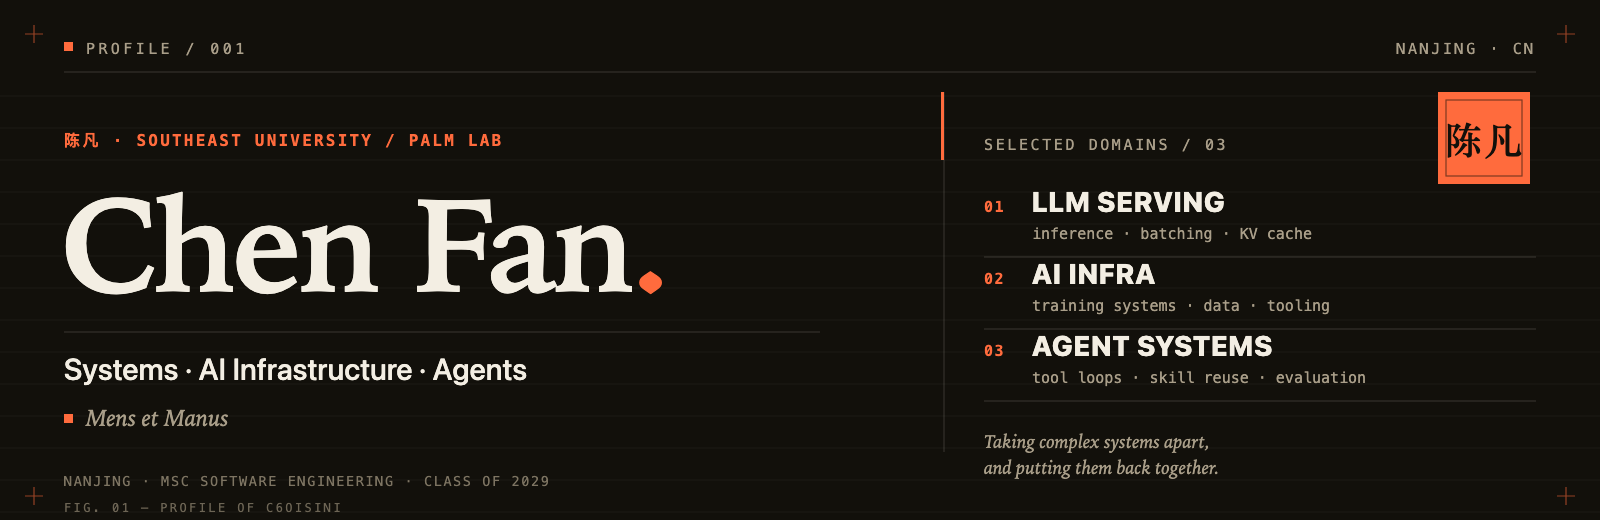
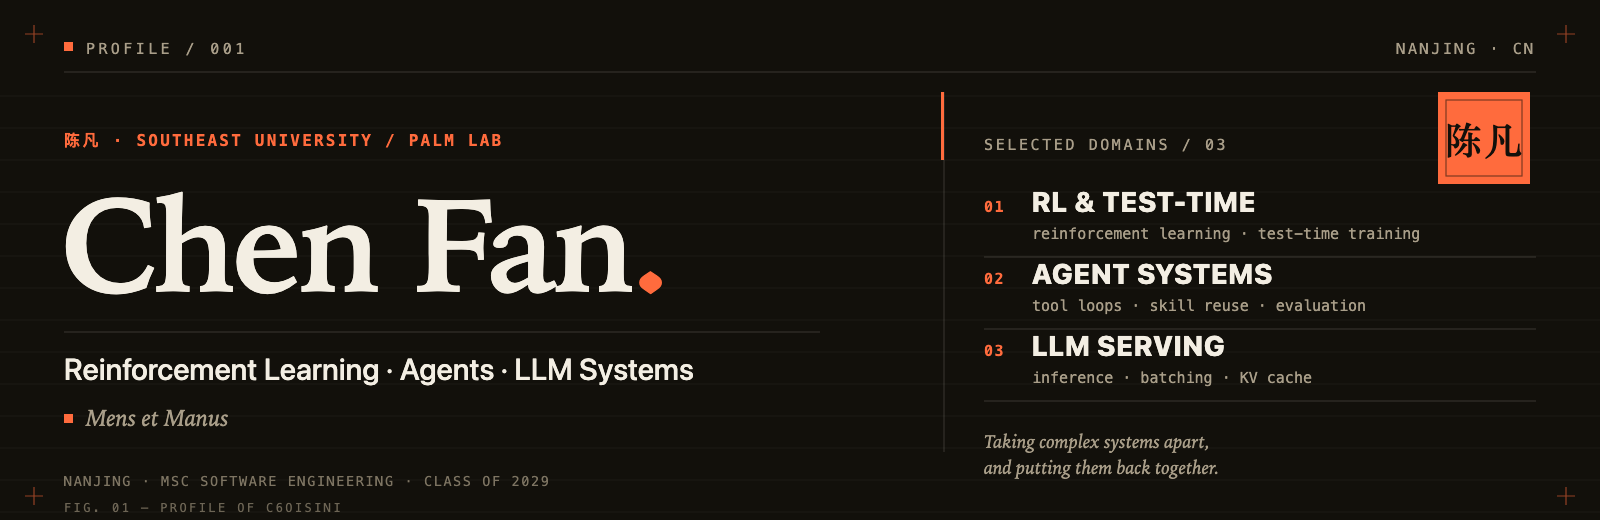
Refocus profile on reinforcement learning and agents
Sync the hero and English README with the updated Chinese copy, and switch the contact email to Gmail.

diff --git a/make_hero.py b/make_hero.py
@@ -21,16 +21,16 @@ NAME_CN = "陈凡"
 HANDLE = "C6oisini"
 LABEL = "PALM LAB"
 SCHOOL = "SOUTHEAST UNIVERSITY"
-TAGLINE = "Systems · AI Infrastructure · Agents"
+TAGLINE = "Reinforcement Learning · Agents · LLM Systems"
 MOTTO = "Mens et Manus"
 LOCATION = "NANJING · CN"
 CLASS_OF = "2029"
 
 # 右侧索引：编号、标题、一行小注
 DOMAINS = [
-    ("01", "LLM SERVING", "inference · batching · KV cache"),
-    ("02", "AI INFRA", "training systems · data · tooling"),
-    ("03", "AGENT SYSTEMS", "tool loops · skill reuse · evaluation"),
+    ("01", "RL & TEST-TIME", "reinforcement learning · test-time training"),
+    ("02", "AGENT SYSTEMS", "tool loops · skill reuse · evaluation"),
+    ("03", "LLM SERVING", "inference · batching · KV cache"),
 ]
 # -----------------------------------------------------------------------
 

diff --git a/README.md b/README.md
@@ -2,7 +2,7 @@
   <picture>
     <source media="(prefers-color-scheme: dark)" srcset="./assets/hero-dark.svg">
     <source media="(prefers-color-scheme: light)" srcset="./assets/hero-light.svg">
-    <img src="./assets/hero-light.svg" alt="Chen Fan — Systems, AI Infrastructure, Agents" width="100%">
+    <img src="./assets/hero-light.svg" alt="Chen Fan — Reinforcement Learning, Agents, LLM Systems" width="100%">
   </picture>
 </p>
 
@@ -11,13 +11,13 @@
     <img src="https://img.shields.io/github/followers/C6oisini?label=followers&amp;style=flat-square&amp;color=b83c12&amp;labelColor=17130d" alt="GitHub followers">
   </a>
   <img src="https://komarev.com/ghpvc/?username=C6oisini&amp;label=profile%20views&amp;color=b83c12&amp;style=flat-square" alt="Profile views">
-  <a href="mailto:2194457208@qq.com">
+  <a href="mailto:C6oisini@gmail.com">
     <img src="https://img.shields.io/badge/email-say%20hi-b83c12?style=flat-square&amp;labelColor=17130d" alt="Email">
   </a>
 </p>
 
 <p align="center">
-  <code>VLM</code>&nbsp; <code>Agent Systems</code>&nbsp; <code>LLM Serving</code>
+  <code>Reinforcement Learning</code>&nbsp; <code>Agent Systems</code>&nbsp; <code>LLM Serving</code>
 </p>
 
 <p align="center">
@@ -30,51 +30,37 @@
 
 ### 你好，世界
 
-我是**陈凡**（Chen Fan），东南大学软件工程硕士在读，在 **PALM 实验室**做视觉语言模型与 Agent 方向的研究；本科毕业于湖南科技大学信息安全专业。
+我是**陈凡**（Chen Fan），东南大学软件工程硕士在读，在 **PALM 实验室**做 Reinforcement Learning 与 Agent 方向的研究。
 
-> 把复杂系统拆开、讲清楚，再重新组装成有用的东西。
+> Mens et Manus.
 
 ### 我在做什么
 
-- **研究**：视觉语言模型 · Agent 系统 · 弱监督学习 · 分布外泛化 · 持续学习
-- **工程**：LLM 推理与服务 · 训练基础设施 · Agent 工具循环
-- **经历**：字节跳动 Pangle 算法实习（2026.03–2026.09），做广告排序与多域迁移
-
-### 论文
-
-- **BPGT** — *A Novel Privacy-Preserving K-Means Clustering Framework to Guarantee Local d<sub>χ</sub>-privacy*  
-  SecureComm 2025（CCF-C）· 第一作者 · [code](https://github.com/C6oisini/BPGT)
-- **FedDAR** — *Multidimensional Contribution Assessment and Adaptive Gradient Rewards for Collaborative Fairness in Heterogeneous Federated Learning*  
-  ICIC 2025（CCF-C）· 共同作者
+- **研究**：视觉语言模型 · Agent 系统 · Reinforcement Learning · Test-Time Training
+- **工程**：LLM 推理与服务 · 广告算法基础设施 · Agent 工具循环
+- **经历**：字节跳动 Pangle 算法实习（2026.03–2026.09）
 
 ### 找到我
 
-[Email](mailto:2194457208@qq.com) · [GitHub](https://github.com/C6oisini)
+[Email](mailto:C6oisini@gmail.com) · [GitHub](https://github.com/C6oisini)
 
 ## English
 
 ### Hello, world
 
-I'm **Fan Chen** (陈凡), a master's student in software engineering at **Southeast University**, working on vision-language models and agent systems in the **PALM Lab**. I did my undergraduate work in information security at Hunan University of Science and Technology.
+I'm **Fan Chen** (陈凡), a master's student in software engineering at **Southeast University**, working on reinforcement learning and agent systems in the **PALM Lab**.
 
-> Take complex systems apart, explain them clearly, and put them back together into something useful.
+> Mens et Manus.
 
 ### What I work on
 
-- **Research** — vision-language models, agent systems, weak supervision, out-of-distribution generalization, continual learning
-- **Engineering** — LLM inference and serving, training infrastructure, agent tool loops
-- **Previously** — algorithm intern at ByteDance Pangle (2026.03–2026.09), working on ad ranking and multi-domain transfer
-
-### Publications
-
-- **BPGT** — *A Novel Privacy-Preserving K-Means Clustering Framework to Guarantee Local d<sub>χ</sub>-privacy*  
-  SecureComm 2025 (CCF-C) · first author · [code](https://github.com/C6oisini/BPGT)
-- **FedDAR** — *Multidimensional Contribution Assessment and Adaptive Gradient Rewards for Collaborative Fairness in Heterogeneous Federated Learning*  
-  ICIC 2025 (CCF-C) · co-author
+- **Research** — vision-language models, agent systems, reinforcement learning, test-time training
+- **Engineering** — LLM inference and serving, advertising algorithm infrastructure, agent tool loops
+- **Previously** — algorithm intern at ByteDance Pangle (2026.03–2026.09)
 
 ### Find me
 
-[Email](mailto:2194457208@qq.com) · [GitHub](https://github.com/C6oisini)
+[Email](mailto:C6oisini@gmail.com) · [GitHub](https://github.com/C6oisini)
 
 ---
 

diff --git a/SETUP.md b/SETUP.md
@@ -38,15 +38,15 @@ NAME_CN = "陈凡"
 HANDLE = "C6oisini"
 LABEL = "PALM LAB"
 SCHOOL = "SOUTHEAST UNIVERSITY"
-TAGLINE = "Systems · AI Infrastructure · Agents"
+TAGLINE = "Reinforcement Learning · Agents · LLM Systems"
 MOTTO = "Mens et Manus"
 LOCATION = "NANJING · CN"
 CLASS_OF = "2029"
 
 DOMAINS = [
-    ("01", "LLM SERVING", "inference · batching · KV cache"),
-    ("02", "AI INFRA", "training systems · data · tooling"),
-    ("03", "AGENT SYSTEMS", "tool loops · skill reuse · evaluation"),
+    ("01", "RL & TEST-TIME", "reinforcement learning · test-time training"),
+    ("02", "AGENT SYSTEMS", "tool loops · skill reuse · evaluation"),
+    ("03", "LLM SERVING", "inference · batching · KV cache"),
 ]
 ```
 
@@ -70,7 +70,7 @@ python3 make_hero.py
 - 顶部用 `<picture>` + `prefers-color-scheme` 自动切换亮/暗两张 SVG，路径是相对仓库根目录的 `./assets/...`。
 - 徽章颜色 `b83c12` 对应 SVG 里的朱红，`17130d` 对应墨色；换配色时一起改。
 - 中文 / English 两个锚点分别对应 `## 中文` 和 `## English`，改标题时同步改链接。
-- 邮箱在 README 里出现两次（徽章 + 文字链接），改的时候一起改。
+- 邮箱在 README 里出现三次（徽章 + 中英文文字链接），改的时候一起改。
 
 ## 发布
 
